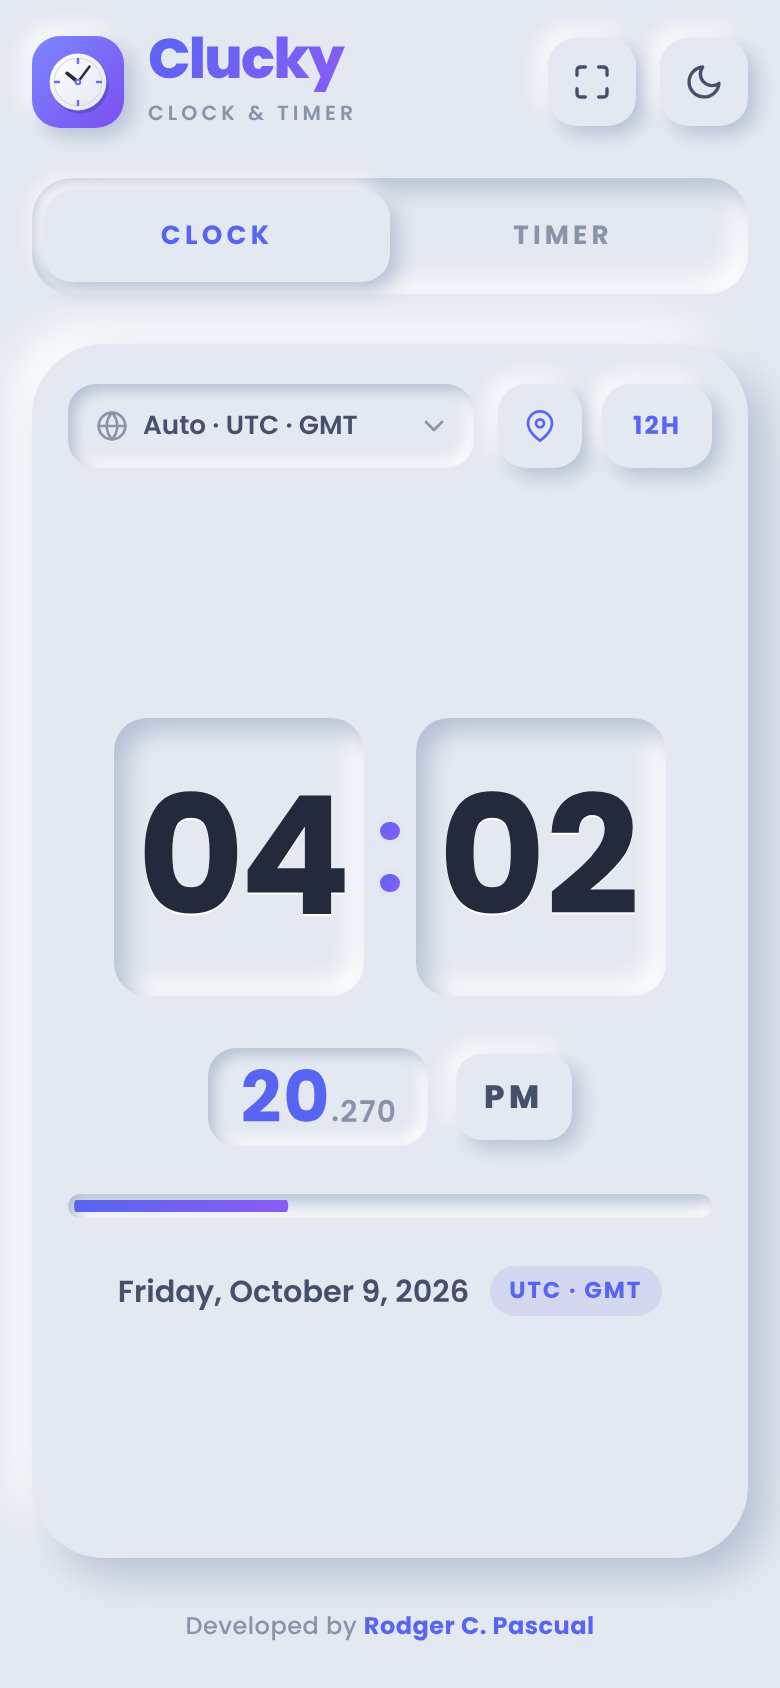
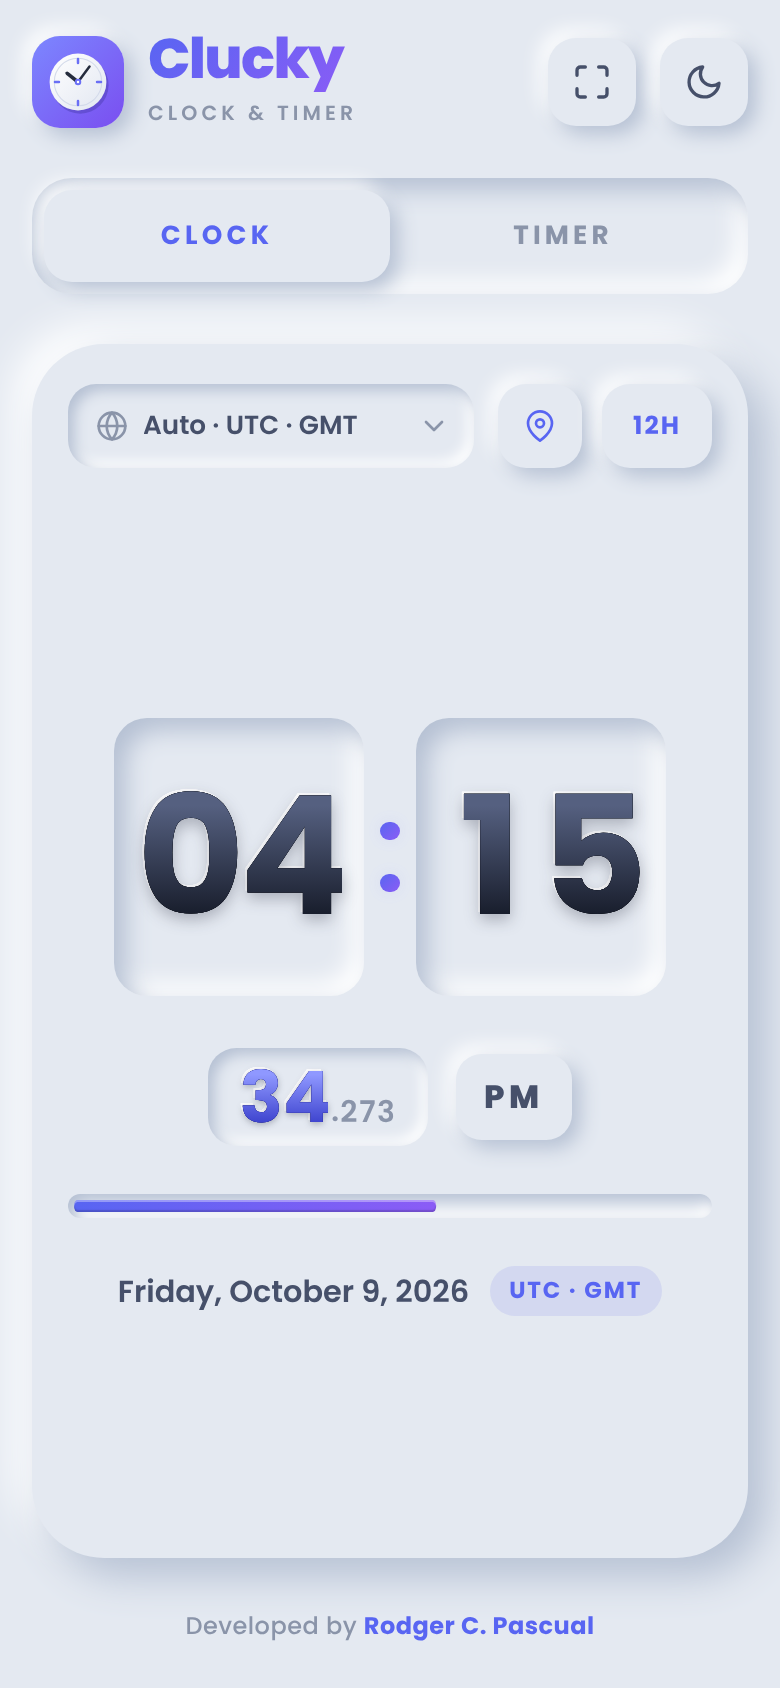
Give clock and timer digits a 3D embossed look
Digits in the clock and timer tiles are now sculpted instead of flat:
a lit-from-above gradient face, an extruded edge underneath, a soft
cast shadow and a bright rim highlight (chained drop-shadow filters,
with a plain-colour fallback where background-clip:text isn't
supported).

Each state has its own shaded palette: graphite (light) / silver (dark)
for normal digits, blue-violet for seconds, deep emerald for the final
10 seconds (replacing the flat neon green) and red for time's up.
Progress bars get a glossy inset finish and the neon glow is removed.

Claude-Session: https://claude.ai/code/session_01WfvoktpLXkoSJQ23K4QYkQ

diff --git a/styles.css b/styles.css
@@ -14,8 +14,13 @@
     --accent-soft: rgba(88, 101, 242, .12);
     --danger: #ef4444;
     --final: #059669;
-    --final-2: #22c55e;
-    --final-glow: rgba(16, 185, 129, .45);
+    /* 3D digit shading: face gradient (top -> bottom), extruded edge, rim highlight, drop shadow */
+    --dig-1: #556080; --dig-2: #171c2a; --dig-edge: #0b0e16;
+    --acc-1: #8f98ff; --acc-2: #3f45cf; --acc-edge: #272b8f;
+    --fin-1: #34d399; --fin-2: #047857; --fin-edge: #053d2e;
+    --bad-1: #f87171; --bad-2: #b91c1c; --bad-edge: #6b1414;
+    --dig-hi: rgba(255, 255, 255, .95);
+    --dig-drop: rgba(24, 30, 52, .30);
     --radius-xl: 2.25rem;
     color-scheme: light;
 }
@@ -32,8 +37,12 @@
         --accent-2: #a78bfa;
         --accent-soft: rgba(131, 144, 255, .16);
         --final: #34d399;
-        --final-2: #4ade80;
-        --final-glow: rgba(52, 211, 153, .45);
+        --dig-1: #ffffff; --dig-2: #a9b3c9; --dig-edge: #5d667b;
+        --acc-1: #c3c9ff; --acc-2: #6670f0; --acc-edge: #343a9c;
+        --fin-1: #8ff0c6; --fin-2: #10a874; --fin-edge: #064a37;
+        --bad-1: #fecaca; --bad-2: #e43d3d; --bad-edge: #7a1717;
+        --dig-hi: rgba(255, 255, 255, .10);
+        --dig-drop: rgba(0, 0, 0, .55);
         color-scheme: dark;
     }
 }
@@ -49,8 +58,12 @@
     --accent-2: #a78bfa;
     --accent-soft: rgba(131, 144, 255, .16);
     --final: #34d399;
-    --final-2: #4ade80;
-    --final-glow: rgba(52, 211, 153, .45);
+    --dig-1: #ffffff; --dig-2: #a9b3c9; --dig-edge: #5d667b;
+    --acc-1: #c3c9ff; --acc-2: #6670f0; --acc-edge: #343a9c;
+    --fin-1: #8ff0c6; --fin-2: #10a874; --fin-edge: #064a37;
+    --bad-1: #fecaca; --bad-2: #e43d3d; --bad-edge: #7a1717;
+    --dig-hi: rgba(255, 255, 255, .10);
+    --dig-drop: rgba(0, 0, 0, .55);
     color-scheme: dark;
 }
 
@@ -335,7 +348,28 @@ select option { background: var(--bg); color: var(--text); }
 .tile .digits {
     color: var(--text-strong);
     letter-spacing: -.01em;
-    text-shadow: 0 .015em 0 var(--sh-light);
+}
+
+/* ---------- 3D embossed digits ----------
+   Each digit face gets a lit-from-above gradient; chained drop-shadows then
+   add an extruded edge underneath, a soft cast shadow and a bright rim. */
+.d3 {
+    --g1: var(--dig-1); --g2: var(--dig-2); --edge: var(--dig-edge);
+    filter:
+        drop-shadow(0 .012em 0 var(--edge))
+        drop-shadow(0 .012em 0 var(--edge))
+        drop-shadow(.01em .045em .045em var(--dig-drop))
+        drop-shadow(-.008em -.01em 0 var(--dig-hi));
+}
+.d3-accent { --g1: var(--acc-1); --g2: var(--acc-2); --edge: var(--acc-edge); color: var(--accent); }
+@supports ((-webkit-background-clip: text) or (background-clip: text)) {
+    .d3 .d {
+        background: linear-gradient(180deg, var(--g1) 18%, var(--g2) 86%);
+        -webkit-background-clip: text;
+        background-clip: text;
+        -webkit-text-fill-color: transparent;
+        color: transparent;
+    }
 }
 
 .colon {
@@ -394,6 +428,7 @@ select option { background: var(--bg); color: var(--text); }
     height: 100%;
     border-radius: 999px;
     background: linear-gradient(90deg, var(--accent), var(--accent-2));
+    box-shadow: inset 0 1px 0 rgba(255, 255, 255, .35), inset 0 -1px 1px rgba(0, 0, 0, .18);
     transform-origin: left center;
     transform: scaleX(0);
 }
@@ -618,18 +653,17 @@ select option { background: var(--bg); color: var(--text); }
     height: 100%;
     border-radius: 999px;
     background: linear-gradient(90deg, var(--accent), var(--accent-2));
+    box-shadow: inset 0 1px 0 rgba(255, 255, 255, .35), inset 0 -1px 1px rgba(0, 0, 0, .18);
     transition: background .3s ease;
 }
 
 .timer-run.is-paused .timer-tiles .digits { animation: blink 1.6s ease-in-out infinite; }
-/* Final 10 seconds: strong emerald green */
-.timer-run.is-final .timer-tiles .digits,
+/* Final 10 seconds: deep, shaded emerald */
+.timer-run.is-final .timer-tiles .d3 { --g1: var(--fin-1); --g2: var(--fin-2); --edge: var(--fin-edge); color: var(--final); }
 .timer-run.is-final .timer-label { color: var(--final); }
-.timer-run.is-final .timer-fill {
-    background: linear-gradient(90deg, var(--final), var(--final-2));
-    box-shadow: 0 0 10px var(--final-glow);
-}
-.timer-run.is-done .timer-tiles .digits,
+.timer-run.is-final .timer-fill { background: linear-gradient(90deg, var(--fin-1), var(--fin-2)); }
+/* Time's up: shaded red */
+.timer-run.is-done .timer-tiles .d3 { --g1: var(--bad-1); --g2: var(--bad-2); --edge: var(--bad-edge); color: var(--danger); }
 .timer-run.is-done .timer-label { color: var(--danger); }
 .timer-run.is-done .timer-tiles .tile { animation: pulse-alert 1s ease-in-out infinite; }
 

diff --git a/index.html b/index.html
@@ -100,15 +100,15 @@
 
                 <div class="card-body clock-body">
                     <div class="clock-main" id="clock-main" role="timer" aria-live="off">
-                        <div class="tile neu-in"><span id="clock-h" class="digits">00</span></div>
+                        <div class="tile neu-in"><span id="clock-h" class="digits d3">00</span></div>
                         <div class="colon" id="clock-colon" aria-hidden="true"><i></i><i></i></div>
-                        <div class="tile neu-in"><span id="clock-m" class="digits">00</span></div>
+                        <div class="tile neu-in"><span id="clock-m" class="digits d3">00</span></div>
                     </div>
 
                     <div class="clock-meta">
                         <div class="clock-sub">
                             <div class="sec-pill neu-in-sm">
-                                <span id="clock-s" class="digits">00</span><span id="clock-ms" class="digits ms">.000</span>
+                                <span id="clock-s" class="digits d3 d3-accent">00</span><span id="clock-ms" class="digits ms">.000</span>
                             </div>
                             <div id="clock-ampm" class="ampm neu-out-sm">AM</div>
                         </div>
@@ -181,17 +181,17 @@
                     <div id="timer-run" class="timer-run" hidden>
                         <div id="timer-tiles" class="timer-tiles" role="timer">
                             <div class="t-unit">
-                                <div class="tile neu-in"><span id="timer-h" class="digits">00</span></div>
+                                <div class="tile neu-in"><span id="timer-h" class="digits d3">00</span></div>
                                 <span class="t-label">Hours</span>
                             </div>
                             <div class="colon" aria-hidden="true"><i></i><i></i></div>
                             <div class="t-unit">
-                                <div class="tile neu-in"><span id="timer-m" class="digits">00</span></div>
+                                <div class="tile neu-in"><span id="timer-m" class="digits d3">00</span></div>
                                 <span class="t-label">Mins</span>
                             </div>
                             <div class="colon" aria-hidden="true"><i></i><i></i></div>
                             <div class="t-unit">
-                                <div class="tile neu-in sec-tile"><span id="timer-s" class="digits">00</span></div>
+                                <div class="tile neu-in sec-tile"><span id="timer-s" class="digits d3 d3-accent">00</span></div>
                                 <span class="t-label">Secs</span>
                             </div>
                         </div>

diff --git a/sw.js b/sw.js
@@ -1,6 +1,6 @@
 // Clucky service worker — offline support.
 // Bump VERSION whenever you change any app file so installed apps pick up the update.
-const VERSION = 'clucky-v7';
+const VERSION = 'clucky-v8';
 const FONT_CACHE = 'clucky-fonts';
 
 const SHELL = [
